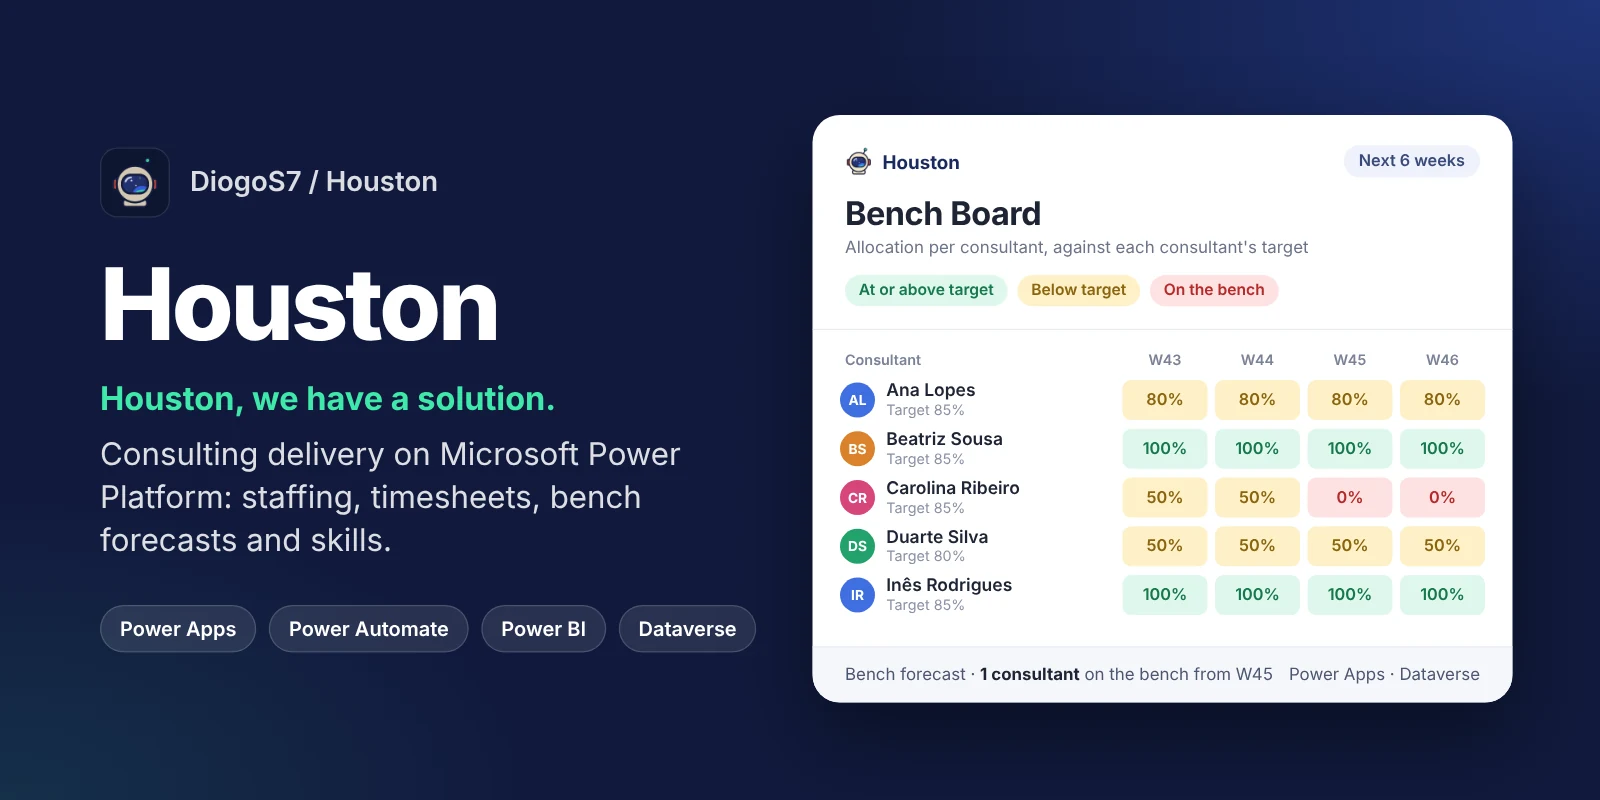
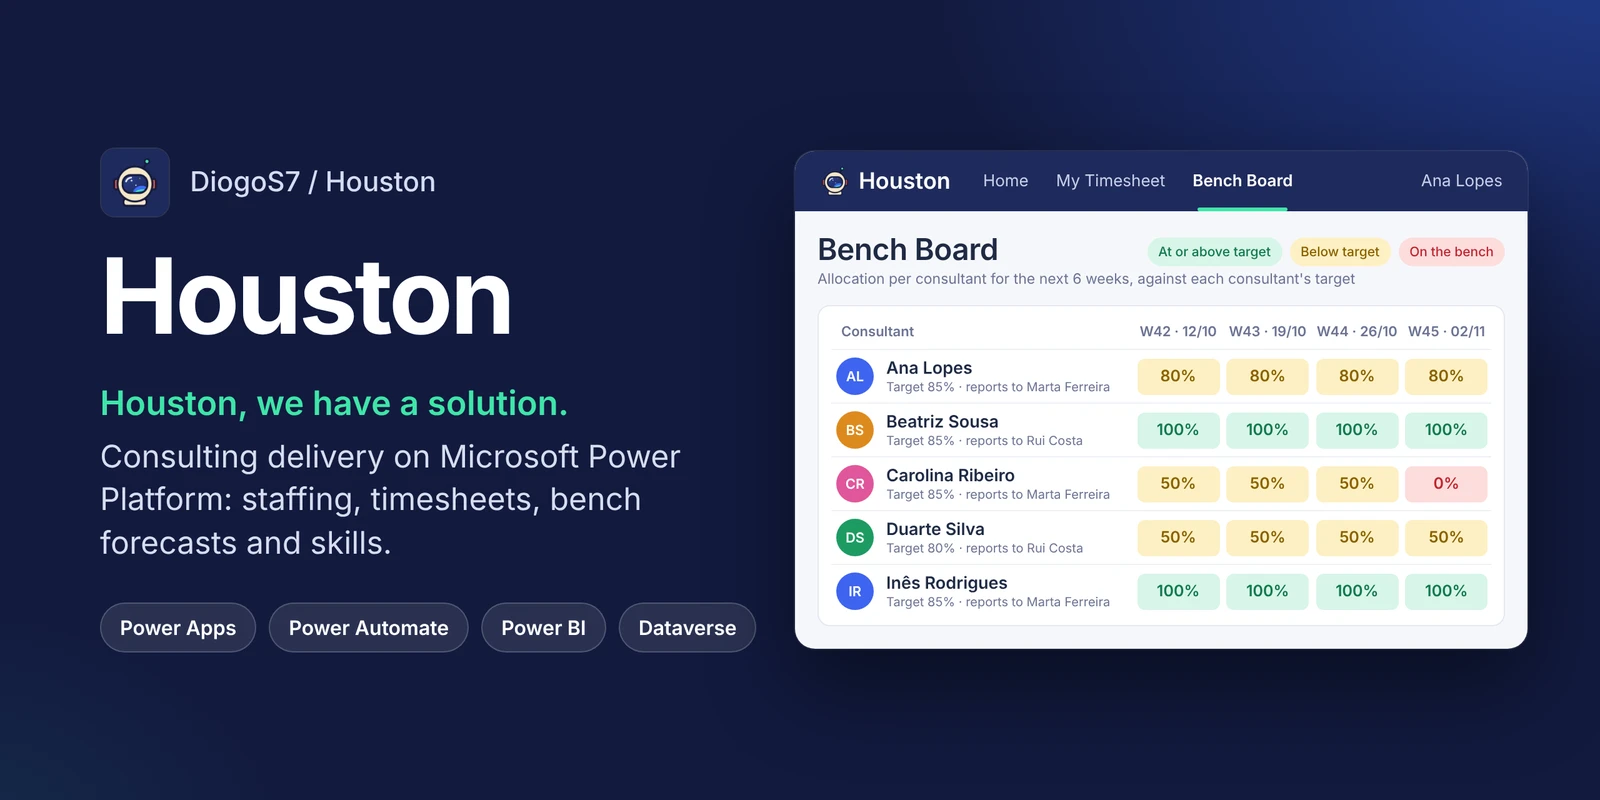
Houston: cover matches the app

diff --git a/assets/js/data.js b/assets/js/data.js
@@ -62,7 +62,7 @@ const CV = {
           summary:"Consultant staffing: timesheets, approvals, utilisation and a bench forecast.",
           notes:["Canvas app with Home, My Timesheet and Bench Board","Timesheet approval, Friday reminder and weekly bench alert flows","Power BI report on utilisation, bench forecast and skills, embedded in the app"],
           shots:[
-            {src:"assets/img/shots/houston-cover.webp?v=20261118", caption:"Houston: consultant staffing, timesheets and bench forecasting on Microsoft Power Platform"},
+            {src:"assets/img/shots/houston-cover.webp?v=20261118-2", caption:"Houston: consultant staffing, timesheets and bench forecasting on Microsoft Power Platform"},
             {src:"assets/img/shots/houston-v1-home.webp?v=20261028", caption:"Home: the week at a glance, a live Power BI tile and in-app notifications"},
             {src:"assets/img/shots/houston-v1-timesheet.webp?v=20261028", caption:"My Timesheet: log hours per engagement and submit the week for approval"},
             {src:"assets/img/shots/houston-v1-bench.webp?v=20261028", caption:"Bench Board: allocation per consultant for the next 6 weeks against their target"},
